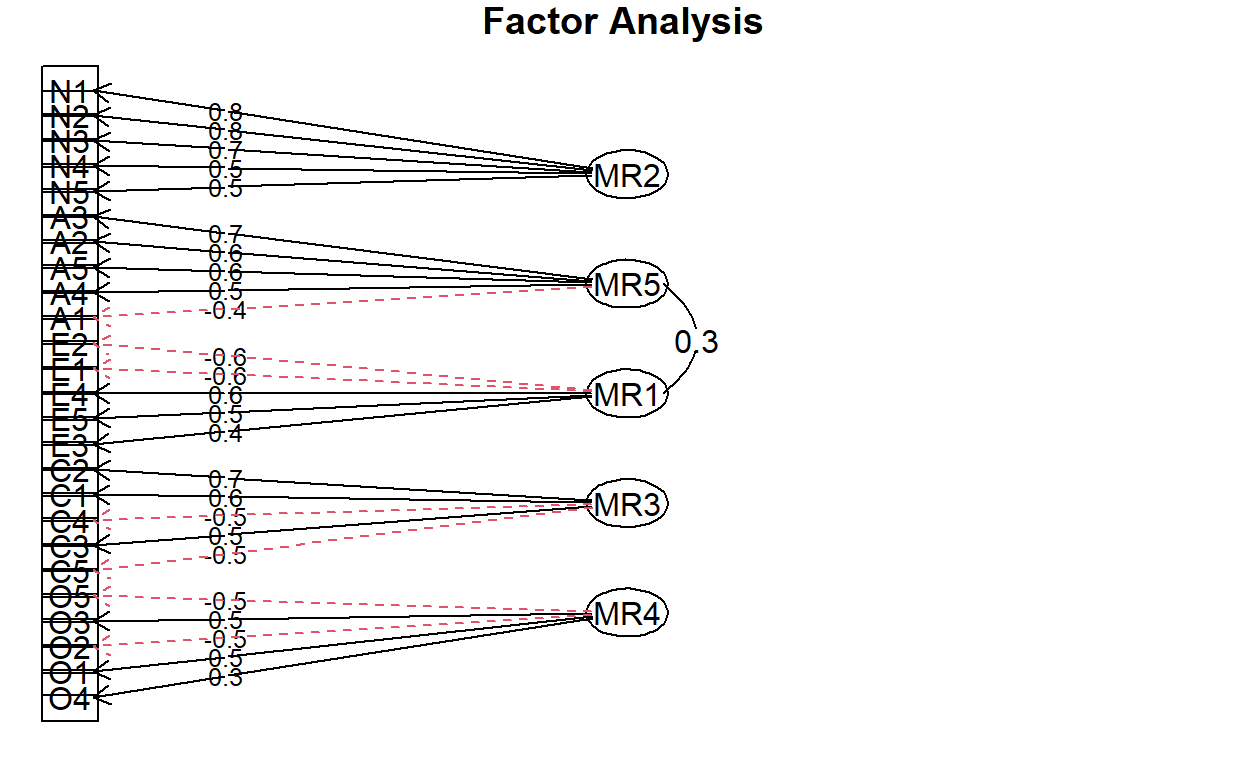
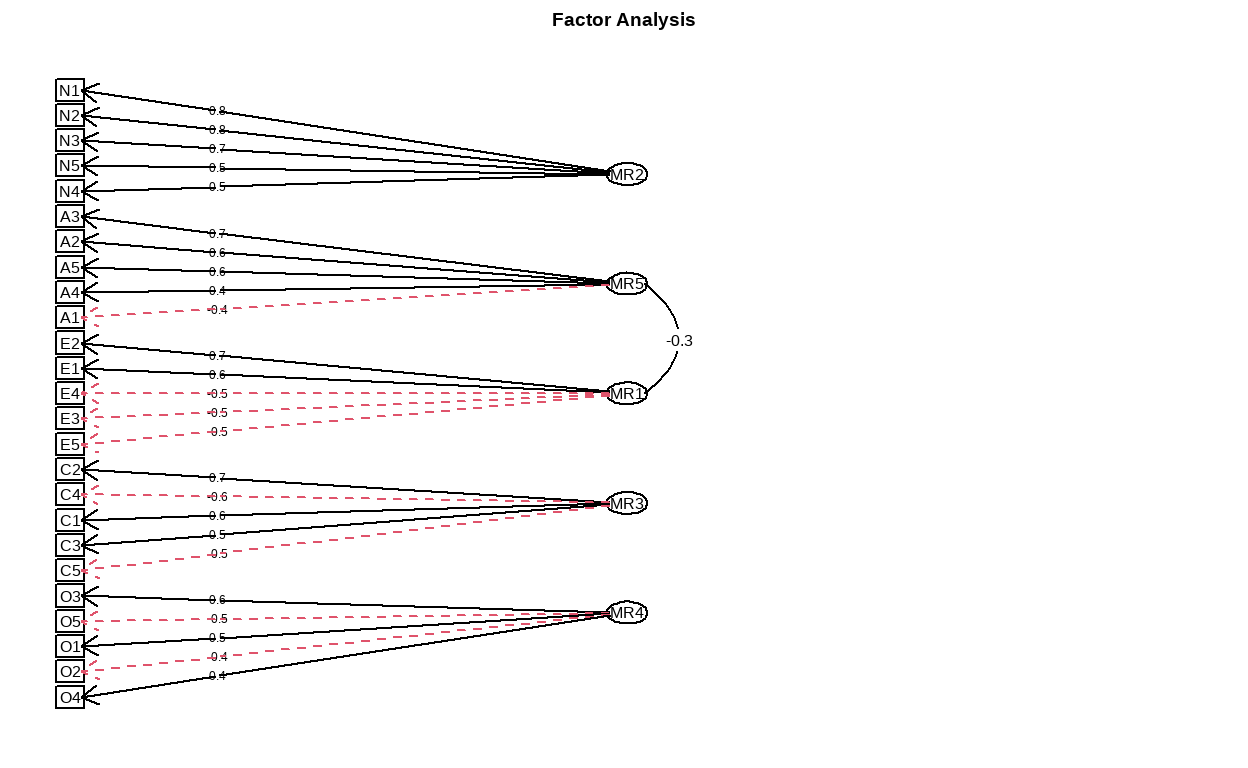
Add files via upload

Changed region(s): [[0.0312, 0.0938, 0.5938, 0.9375], [0.375, 0.0, 0.625, 0.0625], [0.4375, 0.1875, 0.5312, 0.25]]

diff --git a/posts/2022-01-01-efacfa/index.html b/posts/2022-01-01-efacfa/index.html
@@ -132,7 +132,7 @@ code span.wa { color: #5e5e5e; font-style: italic; } /* Warning */
 <!--/radix_placeholder_rmarkdown_metadata-->
   
   <script type="text/json" id="radix-resource-manifest">
-  {"type":"character","attributes":{},"value":["corrmatrix.jpg","efacfa_files/anchor-4.2.2/anchor.min.js","efacfa_files/bowser-1.9.3/bowser.min.js","efacfa_files/distill-2.2.21/template.v2.js","efacfa_files/figure-html5/unnamed-chunk-13-1.png","efacfa_files/figure-html5/unnamed-chunk-19-1.png","efacfa_files/figure-html5/unnamed-chunk-21-1.png","efacfa_files/figure-html5/unnamed-chunk-22-1.png","efacfa_files/figure-html5/unnamed-chunk-23-1.png","efacfa_files/figure-html5/unnamed-chunk-24-1.png","efacfa_files/figure-html5/unnamed-chunk-5-1.png","efacfa_files/figure-html5/unnamed-chunk-6-1.png","efacfa_files/figure-html5/unnamed-chunk-8-1.png","efacfa_files/header-attrs-2.11/header-attrs.js","efacfa_files/jquery-3.6.0/jquery-3.6.0.js","efacfa_files/jquery-3.6.0/jquery-3.6.0.min.js","efacfa_files/jquery-3.6.0/jquery-3.6.0.min.map","efacfa_files/pagedtable-1.1/css/pagedtable.css","efacfa_files/pagedtable-1.1/js/pagedtable.js","efacfa_files/popper-2.6.0/popper.min.js","efacfa_files/tippy-6.2.7/tippy-bundle.umd.min.js","efacfa_files/tippy-6.2.7/tippy-light-border.css","efacfa_files/tippy-6.2.7/tippy.css","efacfa_files/tippy-6.2.7/tippy.umd.min.js","efacfa_files/webcomponents-2.0.0/webcomponents.js"]}
+  {"type":"character","attributes":{},"value":["corrmatrix.jpg","efacfa_files/anchor-4.2.2/anchor.min.js","efacfa_files/bowser-1.9.3/bowser.min.js","efacfa_files/distill-2.2.21/template.v2.js","efacfa_files/figure-html5/unnamed-chunk-13-1.png","efacfa_files/figure-html5/unnamed-chunk-19-1.png","efacfa_files/figure-html5/unnamed-chunk-21-1.png","efacfa_files/figure-html5/unnamed-chunk-22-1.png","efacfa_files/figure-html5/unnamed-chunk-23-1.png","efacfa_files/figure-html5/unnamed-chunk-24-1.png","efacfa_files/figure-html5/unnamed-chunk-5-1.png","efacfa_files/figure-html5/unnamed-chunk-6-1.png","efacfa_files/figure-html5/unnamed-chunk-8-1.png","efacfa_files/header-attrs-2.11/header-attrs.js","efacfa_files/header-attrs-2.12/header-attrs.js","efacfa_files/jquery-3.6.0/jquery-3.6.0.js","efacfa_files/jquery-3.6.0/jquery-3.6.0.min.js","efacfa_files/jquery-3.6.0/jquery-3.6.0.min.map","efacfa_files/pagedtable-1.1/css/pagedtable.css","efacfa_files/pagedtable-1.1/js/pagedtable.js","efacfa_files/popper-2.6.0/popper.min.js","efacfa_files/tippy-6.2.7/tippy-bundle.umd.min.js","efacfa_files/tippy-6.2.7/tippy-light-border.css","efacfa_files/tippy-6.2.7/tippy.css","efacfa_files/tippy-6.2.7/tippy.umd.min.js","efacfa_files/webcomponents-2.0.0/webcomponents.js"]}
   </script>
   <!--radix_placeholder_navigation_in_header-->
 <meta name="distill:offset" content="../.."/>
@@ -2392,7 +2392,7 @@ d-appendix d-footnote-list a.footnote-backlink {
   color: var(--hover-color, white);
 }</style>
 <!--/radix_placeholder_distill-->
-  <script src="../../site_libs/header-attrs-2.11/header-attrs.js"></script>
+  <script src="../../site_libs/header-attrs-2.12/header-attrs.js"></script>
   <link href="../../site_libs/pagedtable-1.1/css/pagedtable.css" rel="stylesheet" />
   <script src="../../site_libs/pagedtable-1.1/js/pagedtable.js"></script>
   <script src="../../site_libs/jquery-3.6.0/jquery-3.6.0.min.js"></script>
@@ -2495,6 +2495,7 @@ Show code
 </summary>
 <div class="sourceCode">
 <pre class="sourceCode r"><code class="sourceCode r"><span class='kw'><a href='https://rdrr.io/r/base/library.html'>library</a></span><span class='op'>(</span><span class='va'><a href='https://easystats.github.io/parameters/'>parameters</a></span><span class='op'>)</span> <span class='co'>#for parameter processing</span>
+<span class='kw'><a href='https://rdrr.io/r/base/library.html'>library</a></span><span class='op'>(</span><span class='va'><a href='https://tidymodels.tidymodels.org'>tidymodels</a></span><span class='op'>)</span> <span class='co'>#for data splitting</span>
 <span class='kw'><a href='https://rdrr.io/r/base/library.html'>library</a></span><span class='op'>(</span><span class='va'><a href='https://tidyverse.tidyverse.org'>tidyverse</a></span><span class='op'>)</span> <span class='co'>#toolbox for R</span>
 <span class='kw'><a href='https://rdrr.io/r/base/library.html'>library</a></span><span class='op'>(</span><span class='va'><a href='https://personality-project.org/r/psych/'>psych</a></span><span class='op'>)</span> <span class='co'>#for descriptive statistics and the data set</span>
 <span class='kw'><a href='https://rdrr.io/r/base/library.html'>library</a></span><span class='op'>(</span><span class='va'><a href='http://www.sthda.com/english/wiki/ggcorrplot'>ggcorrplot</a></span><span class='op'>)</span> <span class='co'>#for correlation matrix</span>
@@ -2502,7 +2503,7 @@ Show code
 <span class='kw'><a href='https://rdrr.io/r/base/library.html'>library</a></span><span class='op'>(</span><span class='va'><a href='https://lavaan.ugent.be'>lavaan</a></span><span class='op'>)</span> <span class='co'>#for SEM</span>
 <span class='kw'><a href='https://rdrr.io/r/base/library.html'>library</a></span><span class='op'>(</span><span class='va'><a href='https://easystats.github.io/performance/'>performance</a></span><span class='op'>)</span> <span class='co'>#assessment of Regression Models Performance</span>
 <span class='kw'><a href='https://rdrr.io/r/base/library.html'>library</a></span><span class='op'>(</span><span class='va'><a href='https://github.com/SachaEpskamp/semPlot'>semPlot</a></span><span class='op'>)</span> <span class='co'>#to plot path model for CFA</span>
-<span class='kw'><a href='https://rdrr.io/r/base/library.html'>library</a></span><span class='op'>(</span><span class='va'>dlookr</span><span class='op'>)</span> <span class='co'>#missing data diagnosis</span>
+<span class='kw'><a href='https://rdrr.io/r/base/library.html'>library</a></span><span class='op'>(</span><span class='va'><a href='https://github.com/choonghyunryu/dlookr/'>dlookr</a></span><span class='op'>)</span> <span class='co'>#missing data diagnosis</span>
 <span class='kw'><a href='https://rdrr.io/r/base/library.html'>library</a></span><span class='op'>(</span><span class='va'><a href='https://github.com/amices/mice'>mice</a></span><span class='op'>)</span> <span class='co'>#missing data imputation</span>
 </code></pre>
 </div>
@@ -2548,7 +2549,7 @@ Show code
 </summary>
 <div class="sourceCode">
 <pre class="sourceCode r"><code class="sourceCode r"><span class='co'>#diagnose for missing value</span>
-<span class='fu'>dlookr</span><span class='fu'>::</span><span class='fu'><a href='https://rdrr.io/pkg/dlookr/man/diagnose.data.frame.html'>diagnose</a></span><span class='op'>(</span><span class='va'>data</span><span class='op'>)</span>
+<span class='fu'>dlookr</span><span class='fu'>::</span><span class='fu'><a href='https://choonghyunryu.github.io/dlookr/reference/diagnose.data.frame.html'>diagnose</a></span><span class='op'>(</span><span class='va'>data</span><span class='op'>)</span>
 </code></pre>
 </div>
 </details>
@@ -2726,7 +2727,7 @@ Show code
 <pre><code># Is the data suitable for Factor Analysis?
 
   - KMO: The Kaiser, Meyer, Olkin (KMO) measure of sampling adequacy suggests that data seems appropriate for factor analysis (KMO = 0.84).
-  - Sphericity: Bartlett&#39;s test of sphericity suggests that there is sufficient significant correlation in the data for factor analysis (Chisq(300) = 10508.83, p &lt; .001).</code></pre>
+  - Sphericity: Bartlett&#39;s test of sphericity suggests that there is sufficient significant correlation in the data for factor analysis (Chisq(300) = 10244.89, p &lt; .001).</code></pre>
 </div>
 <div class="layout-chunk" data-layout="l-body">
 <details>
@@ -2741,7 +2742,7 @@ Show code
 <pre><code># Is the data suitable for Factor Analysis?
 
   - KMO: The Kaiser, Meyer, Olkin (KMO) measure of sampling adequacy suggests that data seems appropriate for factor analysis (KMO = 0.84).
-  - Sphericity: Bartlett&#39;s test of sphericity suggests that there is sufficient significant correlation in the data for factor analysis (Chisq(300) = 9929.32, p &lt; .001).</code></pre>
+  - Sphericity: Bartlett&#39;s test of sphericity suggests that there is sufficient significant correlation in the data for factor analysis (Chisq(300) = 10210.30, p &lt; .001).</code></pre>
 </div>
 <ul>
 <li>The two datasets that we splitted are appropriate for factor analysis, so we can proceed with EFA as the first analysis</li>
@@ -2774,11 +2775,11 @@ Show code
 </code></pre>
 </div>
 </details>
-<pre><code> [1] 5.1260335 2.7283892 2.1703605 1.7962625 1.5810352 1.1067334
- [7] 0.8628232 0.8314676 0.7286709 0.7025545 0.6794529 0.6418044
-[13] 0.6236182 0.5865228 0.5568888 0.5537281 0.5017308 0.4883328
-[19] 0.4771046 0.4435182 0.4277177 0.3970359 0.3845808 0.3458697
-[25] 0.2577638</code></pre>
+<pre><code> [1] 5.1697200 2.6134230 2.1562029 1.7907326 1.6067099 1.0566407
+ [7] 0.8427603 0.7962665 0.7482662 0.7263301 0.6985177 0.6640562
+[13] 0.6544223 0.5997338 0.5573358 0.5424657 0.5117708 0.4961194
+[19] 0.4602673 0.4487993 0.4259742 0.4020084 0.3868776 0.3675815
+[25] 0.2770178</code></pre>
 </div>
 <div class="layout-chunk" data-layout="l-body">
 <details>
@@ -2911,7 +2912,7 @@ Show code
 </details>
 <pre><code># Method Agreement Procedure:
 
-The choice of 6 dimensions is supported by 4 (17.39%) methods out of 23 (Optimal coordinates, Parallel analysis, Kaiser criterion, SE Scree).</code></pre>
+The choice of 6 dimensions is supported by 4 (21.05%) methods out of 19 (Optimal coordinates, Parallel analysis, Kaiser criterion, Scree (SE)).</code></pre>
 </div>
 <div class="layout-chunk" data-layout="l-body">
 <details>
@@ -2925,28 +2926,24 @@ Show code
 </details>
 <pre><code>   n_Factors              Method              Family
 1          1 Acceleration factor               Scree
-2          1                 TLI                 Fit
-3          1               RMSEA                 Fit
-4          3                 CNG                 CNG
-5          4                beta Multiple_regression
-6          4                  R2            Scree_SE
-7          4    VSS complexity 1                 VSS
-8          5    VSS complexity 2                 VSS
-9          5       Velicer&#39;s MAP        Velicers_MAP
-10         6 Optimal coordinates               Scree
-11         6   Parallel analysis               Scree
-12         6    Kaiser criterion               Scree
-13         6            SE Scree            Scree_SE
-14         7                   t Multiple_regression
-15         7                   p Multiple_regression
-16         8                 BIC                 BIC
-17         8                 BIC                 Fit
-18        12      BIC (adjusted)                 BIC
-19        18                CRMS                 Fit
-20        22             Bentler             Bentler
-21        24            Bartlett             Barlett
-22        24            Anderson             Barlett
-23        24              Lawley             Barlett</code></pre>
+2          3                 CNG                 CNG
+3          4                beta Multiple_regression
+4          4          Scree (R2)            Scree_SE
+5          4    VSS complexity 1                 VSS
+6          5    VSS complexity 2                 VSS
+7          5       Velicer&#39;s MAP        Velicers_MAP
+8          6 Optimal coordinates               Scree
+9          6   Parallel analysis               Scree
+10         6    Kaiser criterion               Scree
+11         6          Scree (SE)            Scree_SE
+12         7                   t Multiple_regression
+13         7                   p Multiple_regression
+14         8                 BIC                 BIC
+15        12      BIC (adjusted)                 BIC
+16        22             Bentler             Bentler
+17        24            Bartlett             Barlett
+18        24            Anderson             Barlett
+19        24              Lawley             Barlett</code></pre>
 </div>
 <ul>
 <li>For more details, a summary table can be obtained</li>
@@ -2962,17 +2959,16 @@ Show code
 </div>
 </details>
 <pre><code>   n_Factors n_Methods
-1          1         3
+1          1         1
 2          3         1
 3          4         3
 4          5         2
 5          6         4
 6          7         2
-7          8         2
+7          8         1
 8         12         1
-9         18         1
-10        22         1
-11        24         3</code></pre>
+9         22         1
+10        24         3</code></pre>
 </div>
 <div class="layout-chunk" data-layout="l-body">
 <details>
@@ -2996,7 +2992,7 @@ Show code
 </ul>
 <h3 id="train-test-split">Train test split</h3>
 <ul>
-<li>The data can be easily split into two sets with the data_partition() function, through which we will use 70% of the sample as the training and the rest as the test dataset.</li>
+<li>The data can be easily split into two sets with the <code>initial_split()</code> of the tidymodel package, through which we will use 70% of the sample as the training and the rest as the test dataset.</li>
 </ul>
 <div class="layout-chunk" data-layout="l-body">
 <details>
@@ -3004,11 +3000,14 @@ Show code
 Show code
 </summary>
 <div class="sourceCode">
-<pre class="sourceCode r"><code class="sourceCode r"><span class='va'>partitions</span> <span class='op'>&lt;-</span> <span class='fu'><a href='https://easystats.github.io/parameters/reference/data_partition.html'>data_partition</a></span><span class='op'>(</span><span class='va'>bfi_CFA</span>, training_proportion <span class='op'>=</span> <span class='fl'>0.7</span>, 
-                             seed <span class='op'>=</span> <span class='fl'>999</span><span class='op'>)</span>
+<pre class="sourceCode r"><code class="sourceCode r"><span class='fu'><a href='https://rdrr.io/r/base/Random.html'>set.seed</a></span><span class='op'>(</span><span class='fl'>999</span><span class='op'>)</span>
 
-<span class='va'>training</span> <span class='op'>&lt;-</span> <span class='va'>partitions</span><span class='op'>$</span><span class='va'>training</span>
-<span class='va'>test</span> <span class='op'>&lt;-</span> <span class='va'>partitions</span><span class='op'>$</span><span class='va'>test</span>
+<span class='co'># Put 3/4 of the data into the training set </span>
+<span class='va'>data_split</span> <span class='op'>&lt;-</span> <span class='fu'>initial_split</span><span class='op'>(</span><span class='va'>bfi_CFA</span>, prop <span class='op'>=</span> <span class='fl'>0.7</span><span class='op'>)</span>
+
+<span class='co'># Create data frames for the two sets:</span>
+<span class='va'>training</span> <span class='op'>&lt;-</span> <span class='fu'>training</span><span class='op'>(</span><span class='va'>data_split</span><span class='op'>)</span> <span class='co'>#3/4</span>
+<span class='va'>test</span>  <span class='op'>&lt;-</span> <span class='fu'>testing</span><span class='op'>(</span><span class='va'>data_split</span><span class='op'>)</span>  <span class='co'>#1/4</span>
 </code></pre>
 </div>
 </details>
@@ -3111,9 +3110,10 @@ Show code
 <pre><code># Latent variables
 MR2 =~ N1 + N2 + N3 + N4 + N5
 MR5 =~ A1 + A2 + A3 + A4 + A5
+MR1 =~ E1 + E2 + E4 + E5
 MR3 =~ C1 + C2 + C3 + C4 + C5
-MR1 =~ E1 + E2 + E4 + E5 + O4
-MR4 =~ E3 + O1 + O2 + O3 + O5</code></pre>
+MR4 =~ E3 + O1 + O3 + O4
+MR6 =~ O2 + O5</code></pre>
 </div>
 <h3 id="fit-and-compare-models">Fit and Compare models</h3>
 <ul>
@@ -3135,13 +3135,13 @@ Show code
 <pre><code>
 Model Test User Model:
 
-  Test statistic                              1043.136
+  Test statistic                               948.270
   Degrees of freedom                               265
   P-value                                        0.000
 
 Model Test Baseline Model:
 
-  Test statistic                              3513.829
+  Test statistic                              3122.085
   Degrees of freedom                               300
   P-value                                        0.000
 
@@ -3150,46 +3150,46 @@ User Model versus Baseline Model:
   Comparative Fit Index (CFI)                    0.758
   Tucker-Lewis Index (TLI)                       0.726
   Bentler-Bonett Non-normed Fit Index (NNFI)     0.726
-  Bentler-Bonett Normed Fit Index (NFI)          0.703
-  Parsimony Normed Fit Index (PNFI)              0.621
-  Bollen&#39;s Relative Fit Index (RFI)              0.664
-  Bollen&#39;s Incremental Fit Index (IFI)           0.760
+  Bentler-Bonett Normed Fit Index (NFI)          0.696
+  Parsimony Normed Fit Index (PNFI)              0.615
+  Bollen&#39;s Relative Fit Index (RFI)              0.656
+  Bollen&#39;s Incremental Fit Index (IFI)           0.761
   Relative Noncentrality Index (RNI)             0.758
 
 Loglikelihood and Information Criteria:
 
-  Loglikelihood user model (H0)             -17201.035
-  Loglikelihood unrestricted model (H1)     -16679.468
+  Loglikelihood user model (H0)             -17371.604
+  Loglikelihood unrestricted model (H1)     -16897.469
                                                       
-  Akaike (AIC)                               34522.071
-  Bayesian (BIC)                             34764.629
-  Sample-size adjusted Bayesian (BIC)        34574.230
+  Akaike (AIC)                               34863.208
+  Bayesian (BIC)                             35105.766
+  Sample-size adjusted Bayesian (BIC)        34915.367
 
 Root Mean Square Error of Approximation:
 
-  RMSEA                                          0.084
-  90 Percent confidence interval - lower         0.078
-  90 Percent confidence interval - upper         0.089
+  RMSEA                                          0.078
+  90 Percent confidence interval - lower         0.073
+  90 Percent confidence interval - upper         0.084
   P-value RMSEA &lt;= 0.05                          0.000
 
 Standardized Root Mean Square Residual:
 
   RMR                                            0.174
   RMR (No Mean)                                  0.174
-  SRMR                                           0.086
+  SRMR                                           0.083
 
 Other Fit Indices:
 
-  Hoelter Critical N (CN) alpha = 0.05         123.679
-  Hoelter Critical N (CN) alpha = 0.01         130.746
+  Hoelter Critical N (CN) alpha = 0.05         135.952
+  Hoelter Critical N (CN) alpha = 0.01         143.725
                                                       
-  Goodness of Fit Index (GFI)                    0.815
-  Adjusted Goodness of Fit Index (AGFI)          0.773
-  Parsimony Goodness of Fit Index (PGFI)         0.665
+  Goodness of Fit Index (GFI)                    0.833
+  Adjusted Goodness of Fit Index (AGFI)          0.795
+  Parsimony Goodness of Fit Index (PGFI)         0.679
                                                       
-  McDonald Fit Index (MFI)                       0.397
+  McDonald Fit Index (MFI)                       0.444
                                                       
-  Expected Cross-Validation Index (ECVI)         2.763</code></pre>
+  Expected Cross-Validation Index (ECVI)         2.537</code></pre>
 </div>
 <div class="layout-chunk" data-layout="l-body">
 <details>
@@ -3204,61 +3204,61 @@ Show code
 <pre><code>
 Model Test User Model:
 
-  Test statistic                              1132.134
-  Degrees of freedom                               265
+  Test statistic                               931.725
+  Degrees of freedom                               260
   P-value                                        0.000
 
 Model Test Baseline Model:
 
-  Test statistic                              3513.829
+  Test statistic                              3122.085
   Degrees of freedom                               300
   P-value                                        0.000
 
 User Model versus Baseline Model:
 
-  Comparative Fit Index (CFI)                    0.730
-  Tucker-Lewis Index (TLI)                       0.695
-  Bentler-Bonett Non-normed Fit Index (NNFI)     0.695
-  Bentler-Bonett Normed Fit Index (NFI)          0.678
-  Parsimony Normed Fit Index (PNFI)              0.599
-  Bollen&#39;s Relative Fit Index (RFI)              0.635
-  Bollen&#39;s Incremental Fit Index (IFI)           0.733
-  Relative Noncentrality Index (RNI)             0.730
+  Comparative Fit Index (CFI)                    0.762
+  Tucker-Lewis Index (TLI)                       0.725
+  Bentler-Bonett Non-normed Fit Index (NNFI)     0.725
+  Bentler-Bonett Normed Fit Index (NFI)          0.702
+  Parsimony Normed Fit Index (PNFI)              0.608
+  Bollen&#39;s Relative Fit Index (RFI)              0.656
+  Bollen&#39;s Incremental Fit Index (IFI)           0.765
+  Relative Noncentrality Index (RNI)             0.762
 
 Loglikelihood and Information Criteria:
 
-  Loglikelihood user model (H0)             -17245.534
-  Loglikelihood unrestricted model (H1)     -16679.468
+  Loglikelihood user model (H0)             -17363.331
+  Loglikelihood unrestricted model (H1)     -16897.469
                                                       
-  Akaike (AIC)                               34611.069
-  Bayesian (BIC)                             34853.627
-  Sample-size adjusted Bayesian (BIC)        34663.228
+  Akaike (AIC)                               34856.662
+  Bayesian (BIC)                             35119.433
+  Sample-size adjusted Bayesian (BIC)        34913.168
 
 Root Mean Square Error of Approximation:
 
-  RMSEA                                          0.088
-  90 Percent confidence interval - lower         0.083
-  90 Percent confidence interval - upper         0.093
+  RMSEA                                          0.078
+  90 Percent confidence interval - lower         0.073
+  90 Percent confidence interval - upper         0.084
   P-value RMSEA &lt;= 0.05                          0.000
 
 Standardized Root Mean Square Residual:
 
-  RMR                                            0.181
-  RMR (No Mean)                                  0.181
-  SRMR                                           0.092
+  RMR                                            0.168
+  RMR (No Mean)                                  0.168
+  SRMR                                           0.081
 
 Other Fit Indices:
 
-  Hoelter Critical N (CN) alpha = 0.05         114.036
-  Hoelter Critical N (CN) alpha = 0.01         120.546
+  Hoelter Critical N (CN) alpha = 0.05         135.927
+  Hoelter Critical N (CN) alpha = 0.01         143.771
                                                       
-  Goodness of Fit Index (GFI)                    0.802
-  Adjusted Goodness of Fit Index (AGFI)          0.757
-  Parsimony Goodness of Fit Index (PGFI)         0.654
+  Goodness of Fit Index (GFI)                    0.837
+  Adjusted Goodness of Fit Index (AGFI)          0.797
+  Parsimony Goodness of Fit Index (PGFI)         0.670
                                                       
-  McDonald Fit Index (MFI)                       0.357
+  McDonald Fit Index (MFI)                       0.450
                                                       
-  Expected Cross-Validation Index (ECVI)         2.974</code></pre>
+  Expected Cross-Validation Index (ECVI)         2.522</code></pre>
 </div>
 <div class="layout-chunk" data-layout="l-body">
 <details>
@@ -3274,7 +3274,7 @@ Show code
 </details>
 <div data-pagedtable="false">
 <script data-pagedtable-source type="application/json">
-{"columns":[{"label":["Name"],"name":[1],"type":["chr"],"align":["left"]},{"label":["Model"],"name":[2],"type":["chr"],"align":["left"]},{"label":["Chi2"],"name":[3],"type":["dbl"],"align":["right"]},{"label":["Chi2_df"],"name":[4],"type":["dbl"],"align":["right"]},{"label":["p_Chi2"],"name":[5],"type":["dbl"],"align":["right"]},{"label":["Baseline"],"name":[6],"type":["dbl"],"align":["right"]},{"label":["Baseline_df"],"name":[7],"type":["dbl"],"align":["right"]},{"label":["p_Baseline"],"name":[8],"type":["dbl"],"align":["right"]},{"label":["GFI"],"name":[9],"type":["dbl"],"align":["right"]},{"label":["AGFI"],"name":[10],"type":["dbl"],"align":["right"]},{"label":["NFI"],"name":[11],"type":["dbl"],"align":["right"]},{"label":["NNFI"],"name":[12],"type":["dbl"],"align":["right"]},{"label":["CFI"],"name":[13],"type":["dbl"],"align":["right"]},{"label":["RMSEA"],"name":[14],"type":["dbl"],"align":["right"]},{"label":["RMSEA_CI_low"],"name":[15],"type":["dbl"],"align":["right"]},{"label":["RMSEA_CI_high"],"name":[16],"type":["dbl"],"align":["right"]},{"label":["p_RMSEA"],"name":[17],"type":["dbl"],"align":["right"]},{"label":["RMR"],"name":[18],"type":["dbl"],"align":["right"]},{"label":["SRMR"],"name":[19],"type":["dbl"],"align":["right"]},{"label":["RFI"],"name":[20],"type":["dbl"],"align":["right"]},{"label":["PNFI"],"name":[21],"type":["dbl"],"align":["right"]},{"label":["IFI"],"name":[22],"type":["dbl"],"align":["right"]},{"label":["RNI"],"name":[23],"type":["dbl"],"align":["right"]},{"label":["Loglikelihood"],"name":[24],"type":["dbl"],"align":["right"]},{"label":["AIC"],"name":[25],"type":["dbl"],"align":["right"]},{"label":["AIC_wt"],"name":[26],"type":["dbl"],"align":["right"]},{"label":["BIC"],"name":[27],"type":["dbl"],"align":["right"]},{"label":["BIC_wt"],"name":[28],"type":["dbl"],"align":["right"]},{"label":["BIC_adjusted"],"name":[29],"type":["dbl"],"align":["right"]}],"data":[{"1":"model_big5","2":"lavaan","3":"1043.136","4":"265","5":"0","6":"3513.829","7":"300","8":"0","9":"0.8152806","10":"0.7734573","11":"0.7031342","12":"0.7259007","13":"0.7578790","14":"0.08351484","15":"0.07822173","16":"0.08887477","17":"1.887379e-15","18":"0.1743771","19":"0.08600019","20":"0.6639255","21":"0.6211019","22":"0.7604874","23":"0.7578790","24":"-17201.04","25":"34522.07","26":"1.000000e+00","27":"34764.63","28":"1.000000e+00","29":"34574.23"},{"1":"model_big6","2":"lavaan","3":"1132.134","4":"265","5":"0","6":"3513.829","7":"300","8":"0","9":"0.8021582","10":"0.7573638","11":"0.6778062","12":"0.6945510","13":"0.7301867","14":"0.08816152","15":"0.08290861","16":"0.09348178","17":"3.719247e-14","18":"0.1809260","19":"0.09247950","20":"0.6352523","21":"0.5987288","22":"0.7330934","23":"0.7301867","24":"-17245.53","25":"34611.07","26":"4.723836e-20","27":"34853.63","28":"4.723836e-20","29":"34663.23"}],"options":{"columns":{"min":{},"max":[10]},"rows":{"min":[10],"max":[10]},"pages":{}}}
+{"columns":[{"label":["Name"],"name":[1],"type":["chr"],"align":["left"]},{"label":["Model"],"name":[2],"type":["chr"],"align":["left"]},{"label":["Chi2"],"name":[3],"type":["dbl"],"align":["right"]},{"label":["Chi2_df"],"name":[4],"type":["dbl"],"align":["right"]},{"label":["p_Chi2"],"name":[5],"type":["dbl"],"align":["right"]},{"label":["Baseline"],"name":[6],"type":["dbl"],"align":["right"]},{"label":["Baseline_df"],"name":[7],"type":["dbl"],"align":["right"]},{"label":["p_Baseline"],"name":[8],"type":["dbl"],"align":["right"]},{"label":["GFI"],"name":[9],"type":["dbl"],"align":["right"]},{"label":["AGFI"],"name":[10],"type":["dbl"],"align":["right"]},{"label":["NFI"],"name":[11],"type":["dbl"],"align":["right"]},{"label":["NNFI"],"name":[12],"type":["dbl"],"align":["right"]},{"label":["CFI"],"name":[13],"type":["dbl"],"align":["right"]},{"label":["RMSEA"],"name":[14],"type":["dbl"],"align":["right"]},{"label":["RMSEA_CI_low"],"name":[15],"type":["dbl"],"align":["right"]},{"label":["RMSEA_CI_high"],"name":[16],"type":["dbl"],"align":["right"]},{"label":["p_RMSEA"],"name":[17],"type":["dbl"],"align":["right"]},{"label":["RMR"],"name":[18],"type":["dbl"],"align":["right"]},{"label":["SRMR"],"name":[19],"type":["dbl"],"align":["right"]},{"label":["RFI"],"name":[20],"type":["dbl"],"align":["right"]},{"label":["PNFI"],"name":[21],"type":["dbl"],"align":["right"]},{"label":["IFI"],"name":[22],"type":["dbl"],"align":["right"]},{"label":["RNI"],"name":[23],"type":["dbl"],"align":["right"]},{"label":["Loglikelihood"],"name":[24],"type":["dbl"],"align":["right"]},{"label":["AIC"],"name":[25],"type":["dbl"],"align":["right"]},{"label":["AIC_wt"],"name":[26],"type":["dbl"],"align":["right"]},{"label":["BIC"],"name":[27],"type":["dbl"],"align":["right"]},{"label":["BIC_wt"],"name":[28],"type":["dbl"],"align":["right"]},{"label":["BIC_adjusted"],"name":[29],"type":["dbl"],"align":["right"]}],"data":[{"1":"model_big5","2":"lavaan","3":"948.2703","4":"265","5":"0","6":"3122.085","7":"300","8":"0","9":"0.8331027","10":"0.7953146","11":"0.6962702","12":"0.7259071","13":"0.7578846","14":"0.07825864","15":"0.07291107","16":"0.08367128","17":"7.638334e-14","18":"0.1735804","19":"0.08298493","20":"0.6561549","21":"0.6150387","22":"0.7608506","23":"0.7578846","24":"-17371.60","25":"34863.21","26":"0.03651776","27":"35105.77","28":"0.998924428","29":"34915.37"},{"1":"model_big6","2":"lavaan","3":"931.7248","4":"260","5":"0","6":"3122.085","7":"300","8":"0","9":"0.8373933","10":"0.7967417","11":"0.7015697","12":"0.7253566","13":"0.7619757","14":"0.07833719","15":"0.07293967","16":"0.08380106","17":"6.661338e-15","18":"0.1677189","19":"0.08133215","20":"0.6556574","21":"0.6080271","22":"0.7653023","23":"0.7619757","24":"-17363.33","25":"34856.66","26":"0.96348224","27":"35119.43","28":"0.001075572","29":"34913.17"}],"options":{"columns":{"min":{},"max":[10]},"rows":{"min":[10],"max":[10]},"pages":{}}}
   </script>
 </div>
 </div>

diff --git a/posts/2022-01-01-efacfa/efacfa_files/header-attrs-2.11/header-attrs.js b/posts/2022-01-01-efacfa/efacfa_files/header-attrs-2.11/header-attrs.js
@@ -1,0 +1,12 @@
+// Pandoc 2.9 adds attributes on both header and div. We remove the former (to
+// be compatible with the behavior of Pandoc < 2.8).
+document.addEventListener('DOMContentLoaded', function(e) {
+  var hs = document.querySelectorAll("div.section[class*='level'] > :first-child");
+  var i, h, a;
+  for (i = 0; i < hs.length; i++) {
+    h = hs[i];
+    if (!/^h[1-6]$/i.test(h.tagName)) continue;  // it should be a header h1-h6
+    a = h.attributes;
+    while (a.length > 0) h.removeAttribute(a[0].name);
+  }
+});
